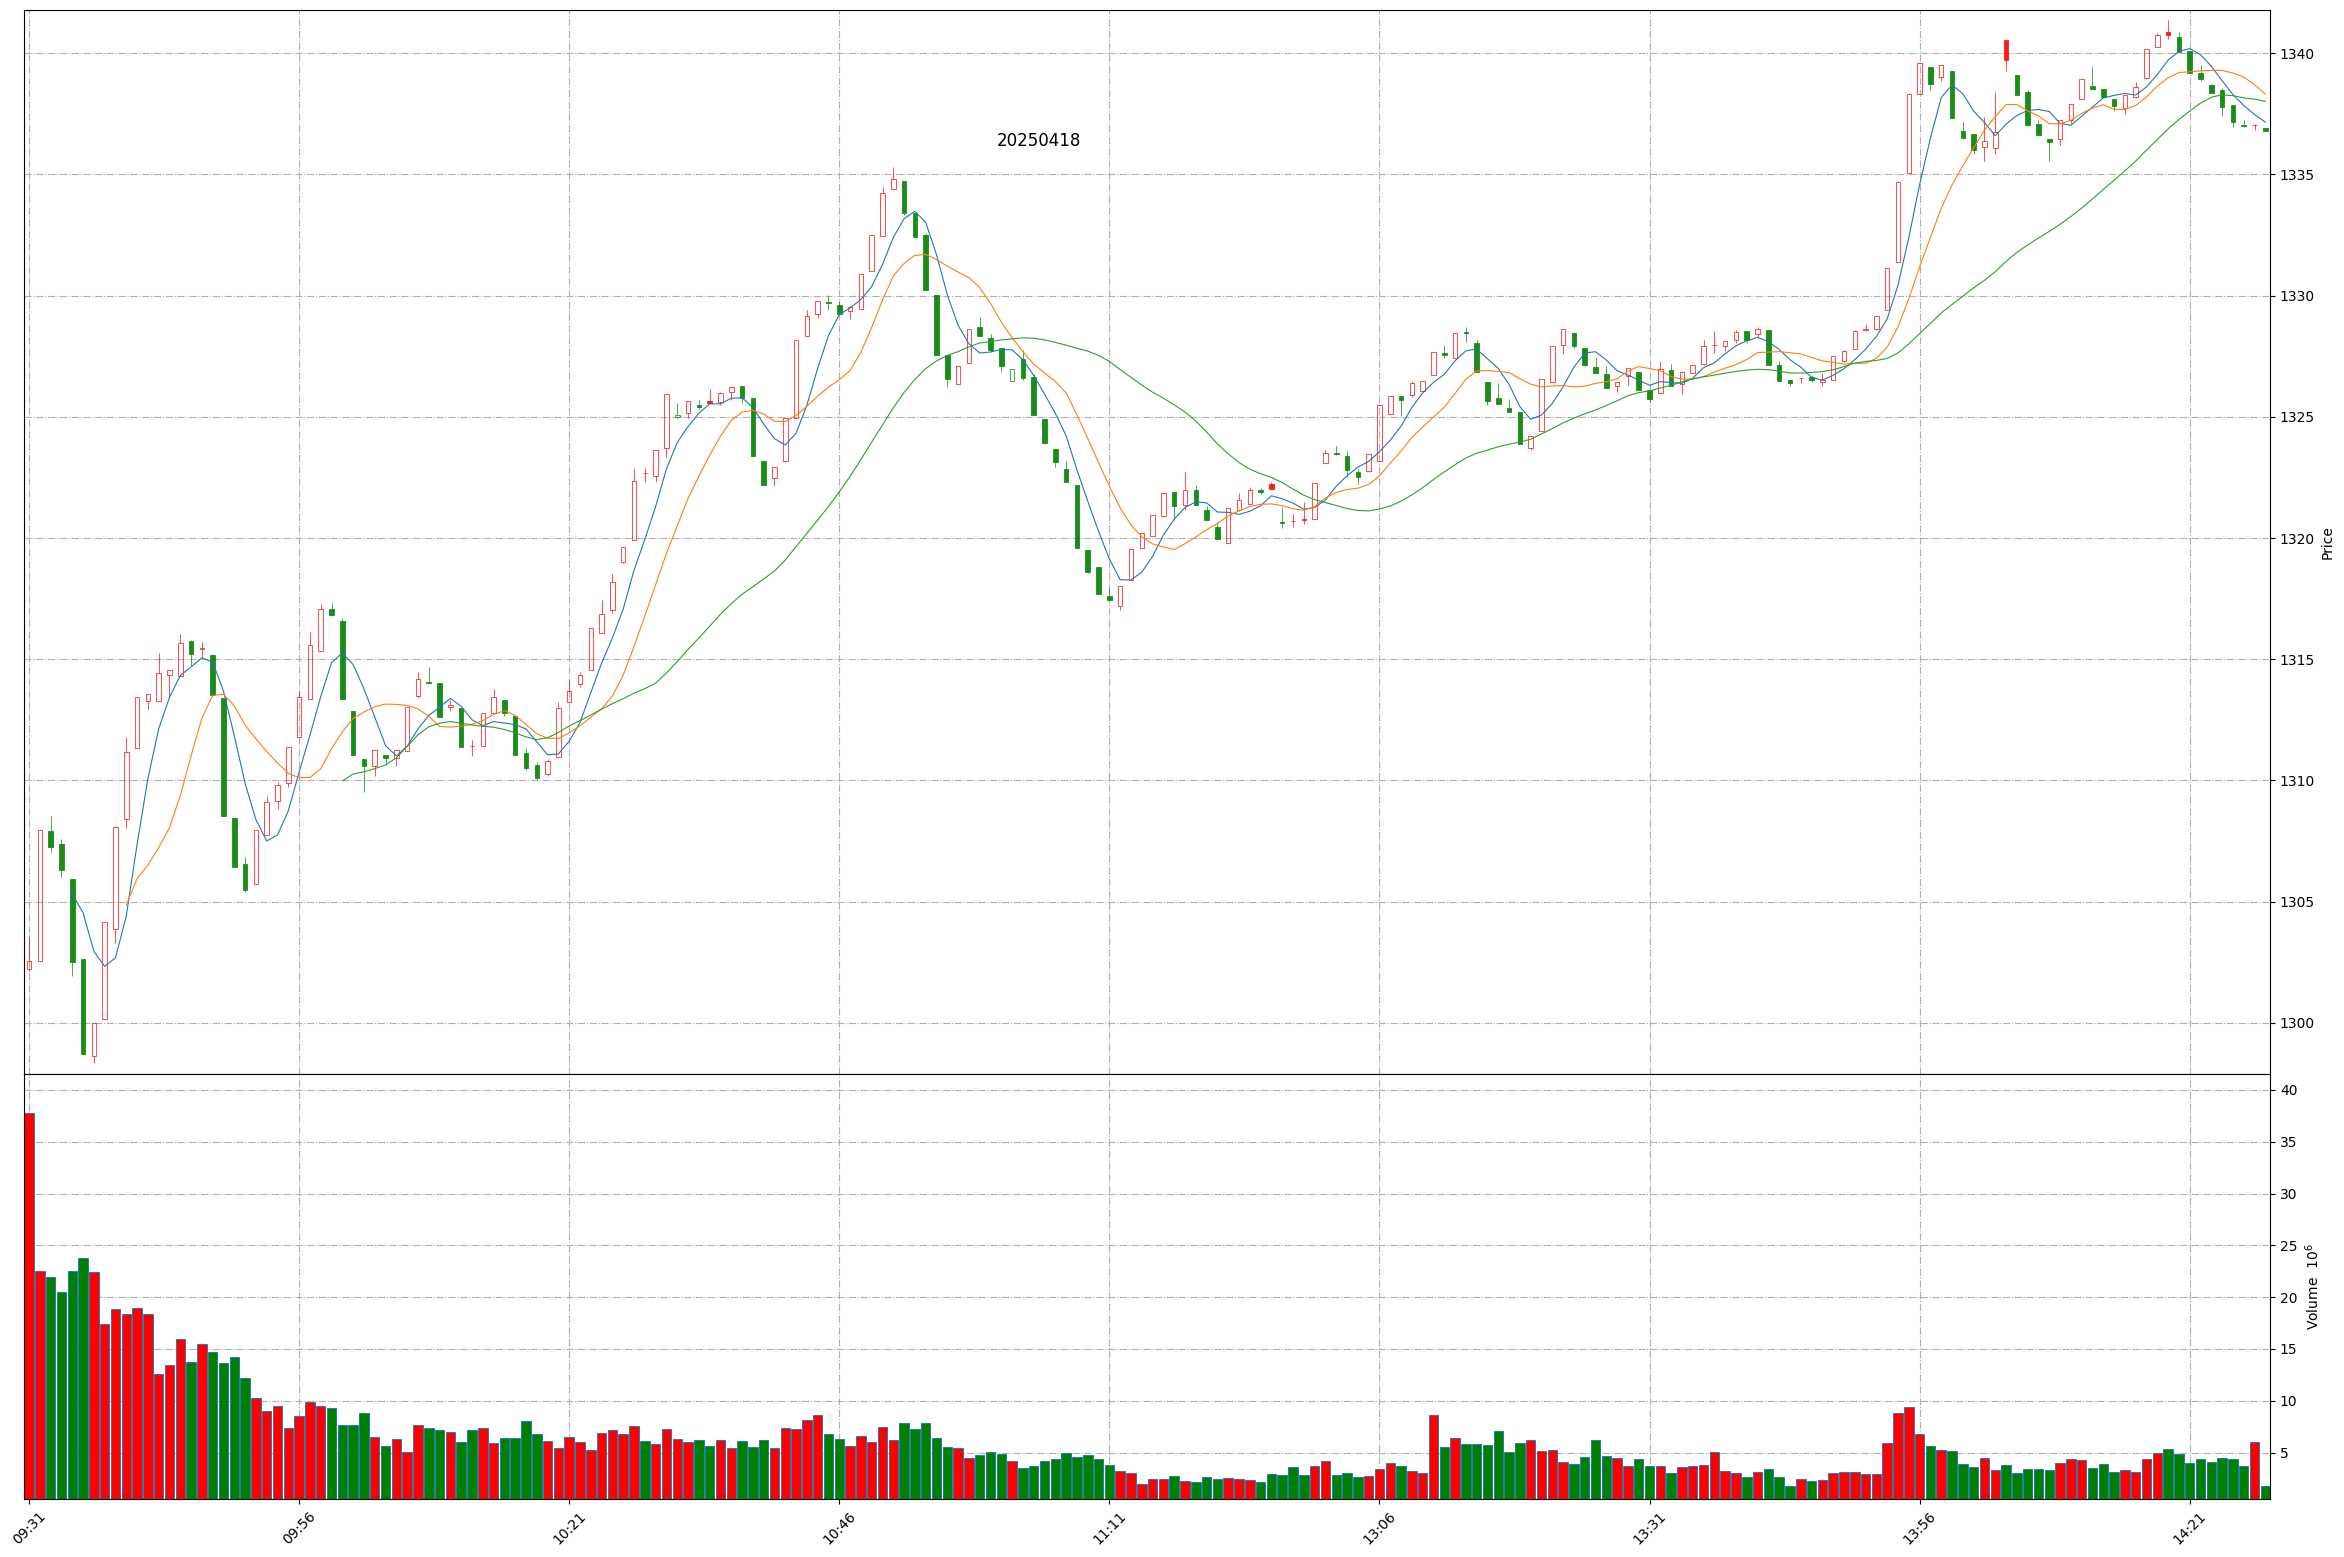
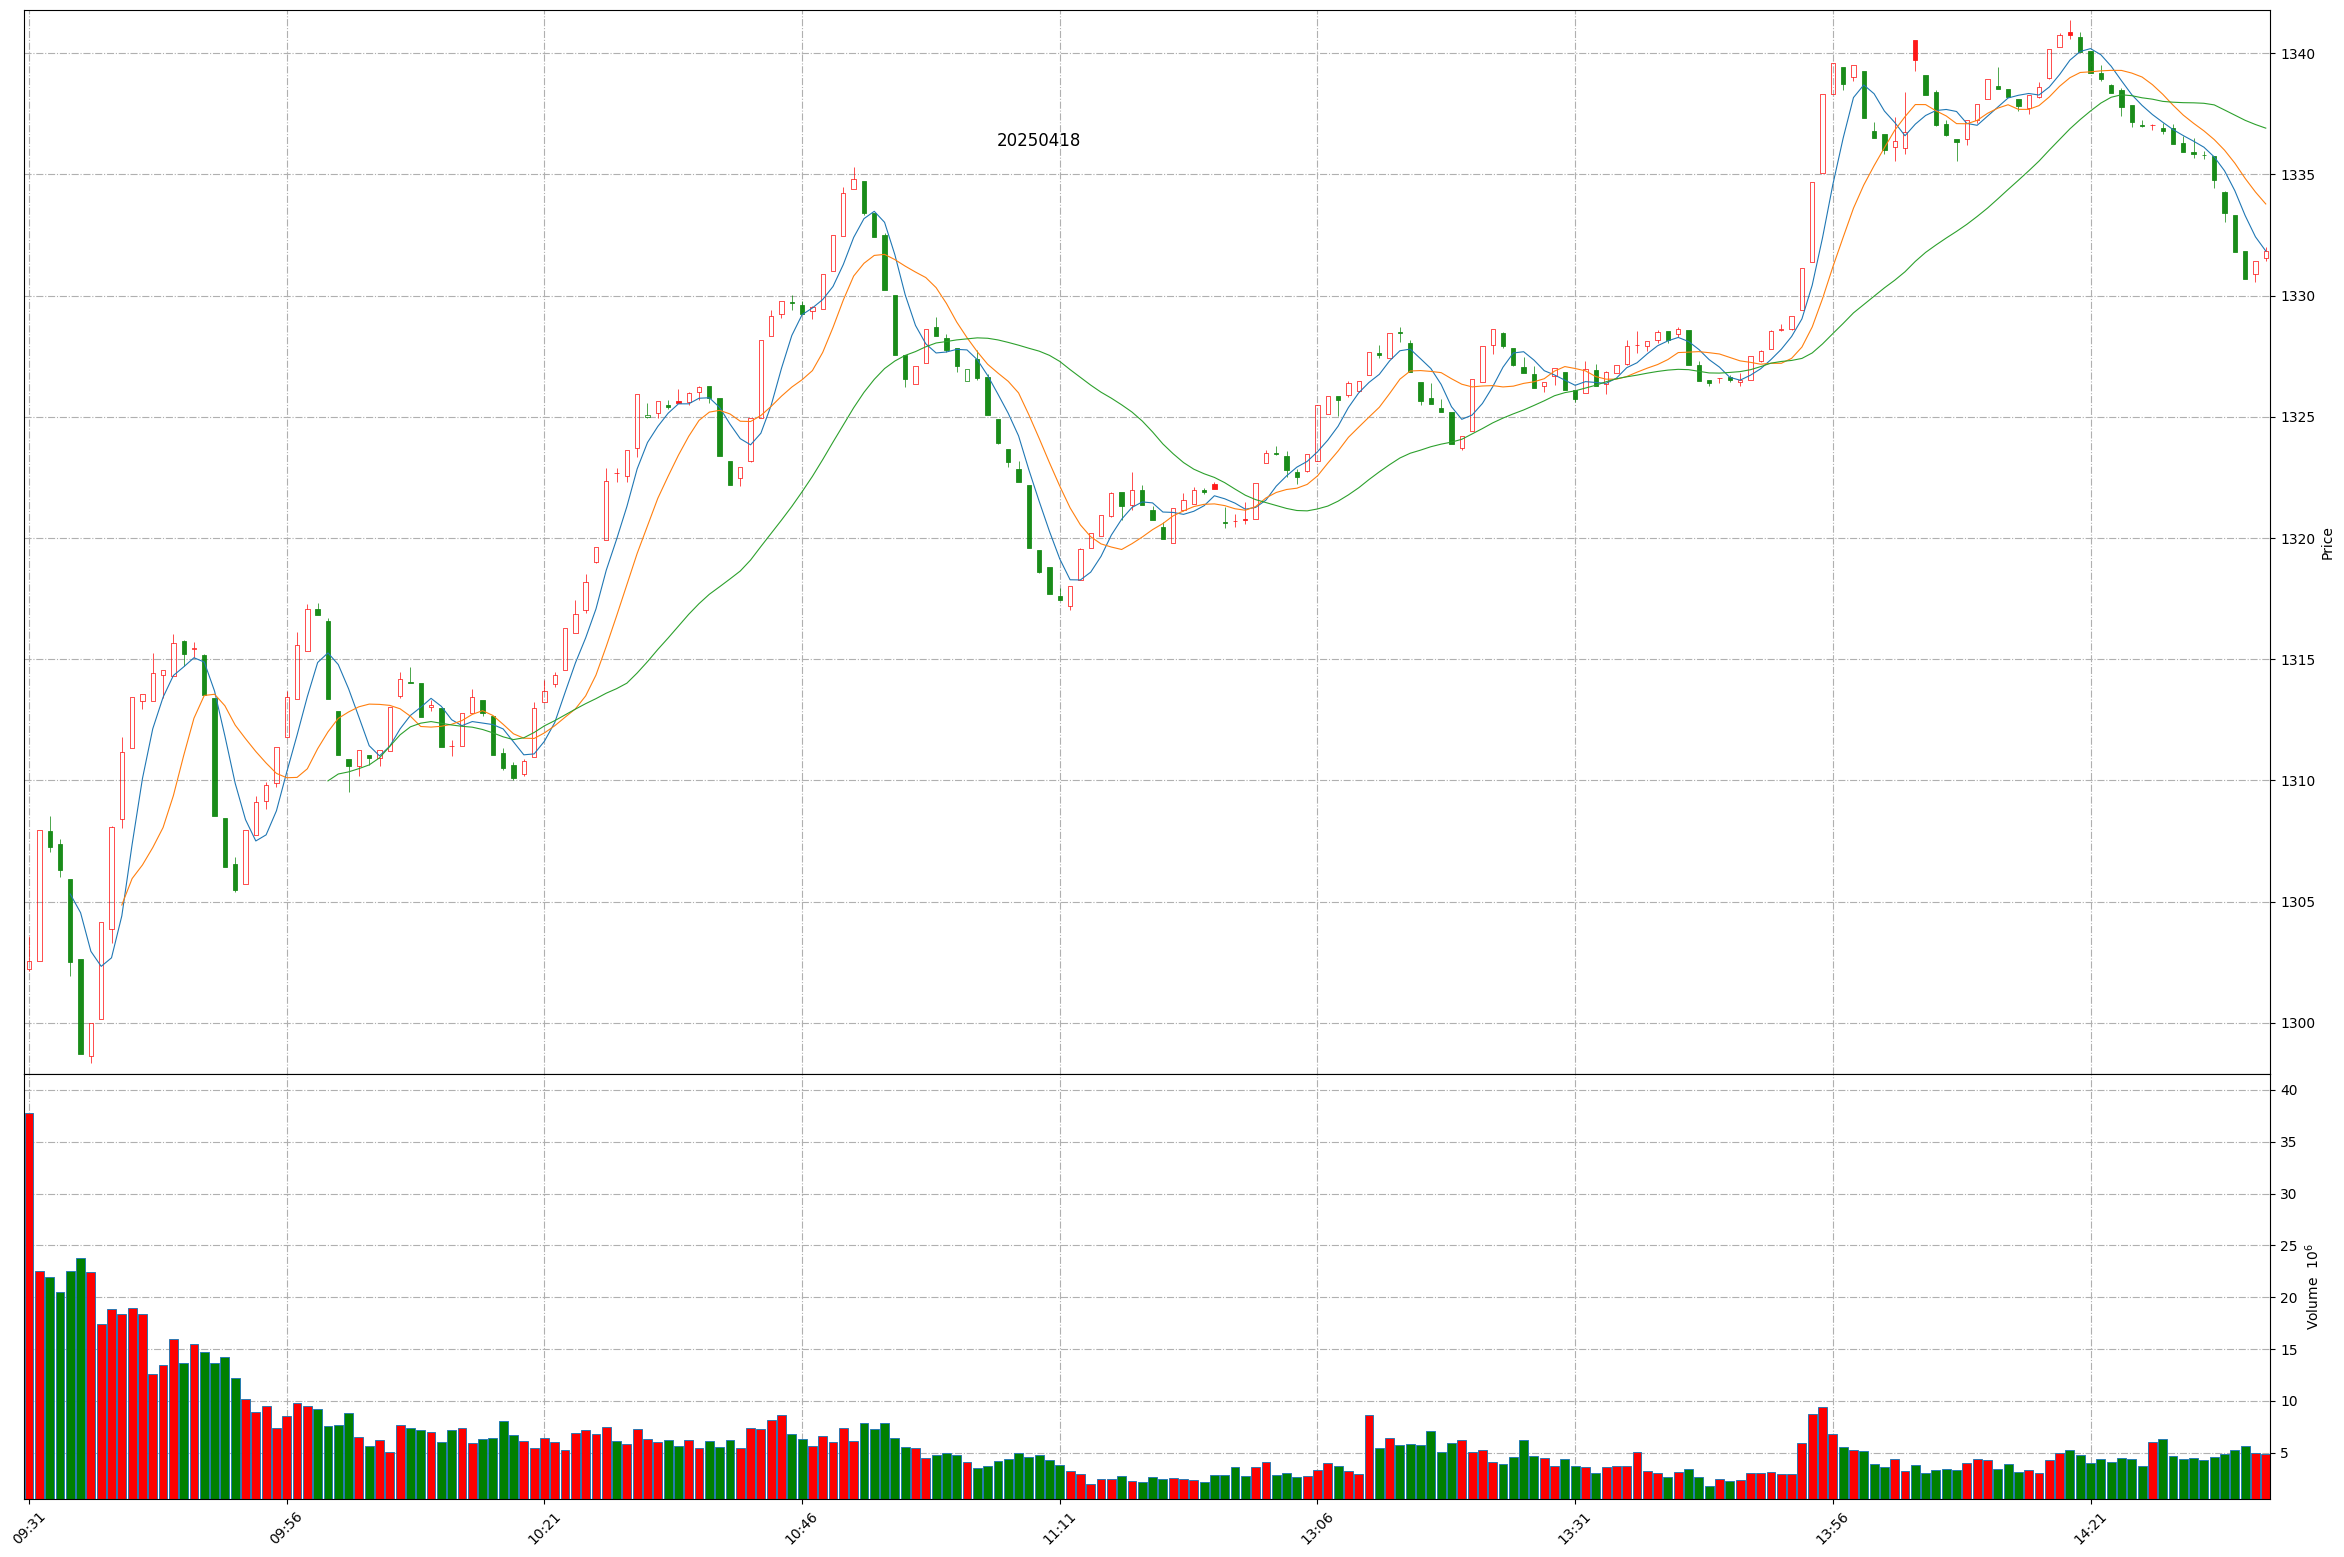
Github action update at 2025-04-18 14:38:15.

diff --git a/README.md b/README.md
@@ -1,11 +1,11 @@
 
 # Daily-A-share-market-quotes 每日 A 股指数（5min 更新）- 20250418
 
-### 上证指数 20250418 14:27
+### 上证指数 20250418 14:38
 ![](./fig/2025/4/20250418-sh000001.png)
 
-### 深证成指 20250418 14:27
+### 深证成指 20250418 14:38
 ![](./fig/2025/4/20250418-sz399001.png)
 
-### 北证50 20250418 14:27
+### 北证50 20250418 14:38
 ![](./fig/2025/4/20250418-bj899050.png)
